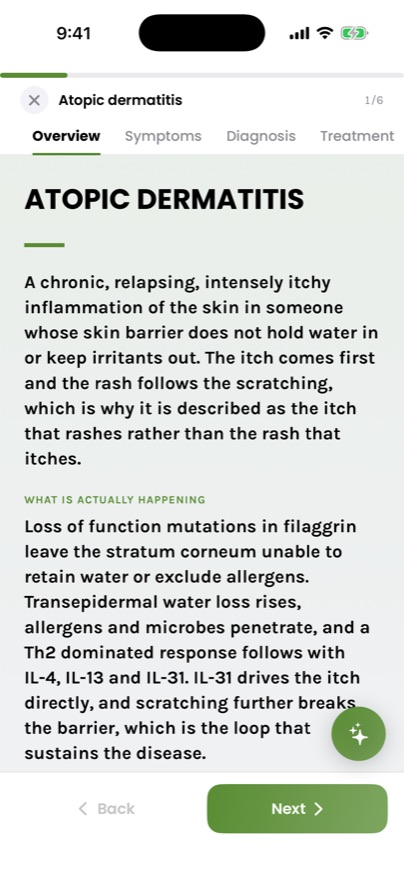
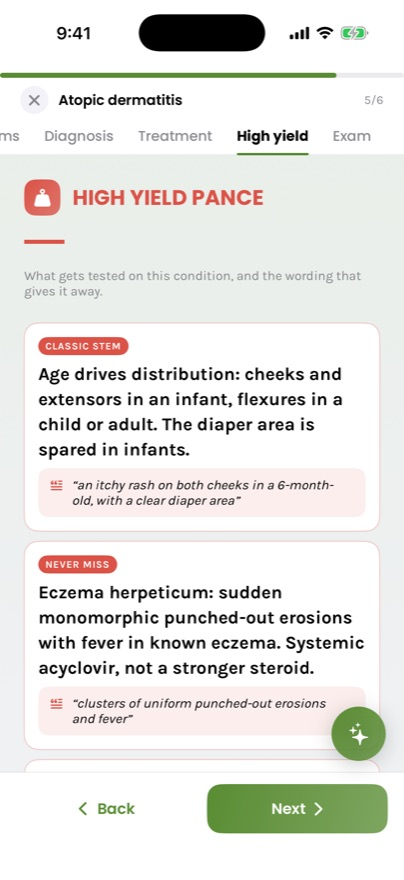
Screenshots: one screen from each part of the app
The first set was four screens from the Lessons flow, which showed one quarter of
the product four times. Replaced with one screen per tab, home first:

* Home — the rotation and its progress
* Lessons — the High Yield PANCE page, the most distinctive thing in the app
* Library — the psoriasis reference page, whose text is now built from its lesson
* Practice — a board-style vignette answered, with the choice-elimination
  controls visible

Captions changed from naming the screen to naming what it is for.

diff --git a/index.html b/index.html
@@ -115,37 +115,40 @@
          size and a screenshot can be swapped without re-exporting a mockup. -->
     <section class="shots" aria-labelledby="shots-h">
       <h2 id="shots-h" class="shots-h">What it looks like</h2>
-      <p class="shots-lede">Screens from the app, not mockups.</p>
+      <p class="shots-lede">One screen from each part of the app. Real screenshots, not mockups.</p>
       <div class="shots-row">
         <figure class="shot">
           <div class="iphone"><div class="screen">
+            <img src="/assets/screens/home.jpg" width="880" height="1913"
+                 alt="The home screen, showing the current rotation and progress through its topics."
+                 loading="lazy" decoding="async">
+          </div></div>
+          <figcaption>Built around your rotation</figcaption>
+        </figure>
+        <figure class="shot">
+          <div class="iphone"><div class="screen">
             <img src="/assets/screens/lesson.jpg" width="880" height="1913"
-                 alt="A lesson on atopic dermatitis, open on the overview page." loading="lazy" decoding="async">
+                 alt="The High Yield PANCE page of a lesson, listing what gets tested and the stem wording that signals it."
+                 loading="lazy" decoding="async">
           </div></div>
-          <figcaption>A lesson, start to finish</figcaption>
+          <figcaption>Lessons, ending on what gets tested</figcaption>
         </figure>
         <figure class="shot">
           <div class="iphone"><div class="screen">
-            <img src="/assets/screens/highyield.jpg" width="880" height="1913"
-                 alt="The High Yield PANCE page, listing what gets tested and the stem wording that signals it." loading="lazy" decoding="async">
+            <img src="/assets/screens/library.jpg" width="880" height="1913"
+                 alt="The psoriasis reference page, with pathophysiology, symptoms, diagnosis and treatment sections."
+                 loading="lazy" decoding="async">
           </div></div>
-          <figcaption>What actually gets tested</figcaption>
+          <figcaption>950 conditions to look up</figcaption>
         </figure>
         <figure class="shot">
           <div class="iphone"><div class="screen">
-            <img src="/assets/screens/question.jpg" width="880" height="1913"
-                 alt="A board-style vignette with the correct answer selected." loading="lazy" decoding="async">
+            <img src="/assets/screens/practice.jpg" width="880" height="1913"
+                 alt="A board-style practice question answered correctly, with the choice-elimination controls visible."
+                 loading="lazy" decoding="async">
           </div></div>
-          <figcaption>Board-style questions</figcaption>
+          <figcaption>Board-style questions, with rationale</figcaption>
         </figure>
-        <figure class="shot">
-          <div class="iphone"><div class="screen">
-            <img src="/assets/screens/topics.jpg" width="880" height="1913"
-                 alt="The Family Medicine dermatology topic list." loading="lazy" decoding="async">
-          </div></div>
-          <figcaption>Organised by blueprint</figcaption>
-        </figure>
-      </div>
     </section>
   </div>
 </main>
